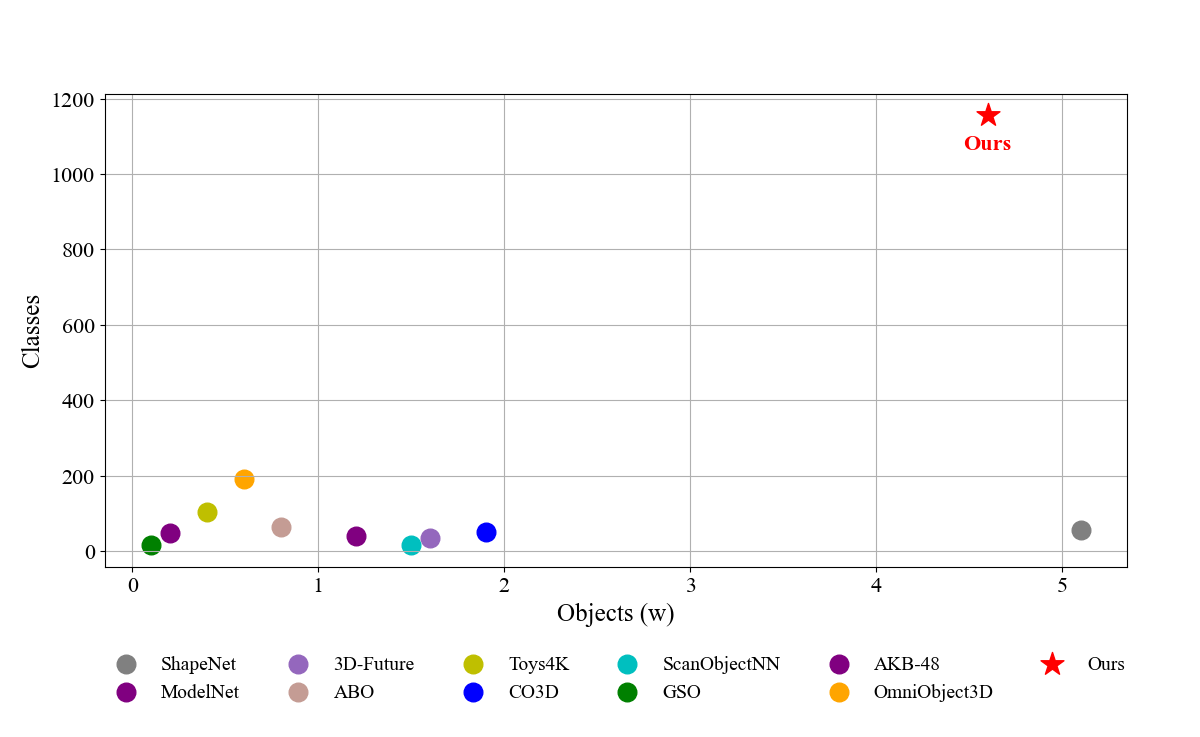
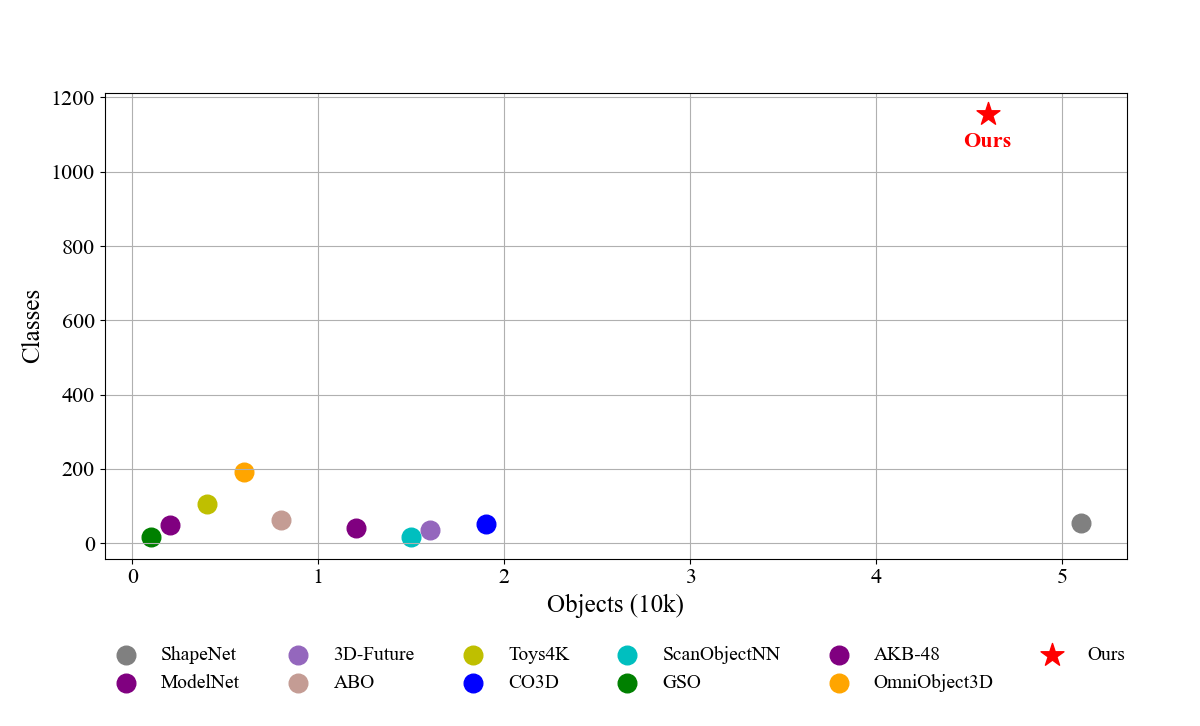
tmp

diff --git a/python/tmp/plot.py b/python/tmp/plot.py
@@ -174,7 +174,7 @@ def ShowtJittrLagValue():
             plt.scatter(tSmt[i], tLag[i], color=current_color, s=180, label=labels[i])  # 点大小增加
         
         plt.ylabel('Classes', fontsize=18)
-        plt.xlabel('Objects (w)', fontsize=18)
+        plt.xlabel('Objects (10k)', fontsize=18)
         plt.xticks(fontsize=16)
         plt.yticks(fontsize=16)
 
